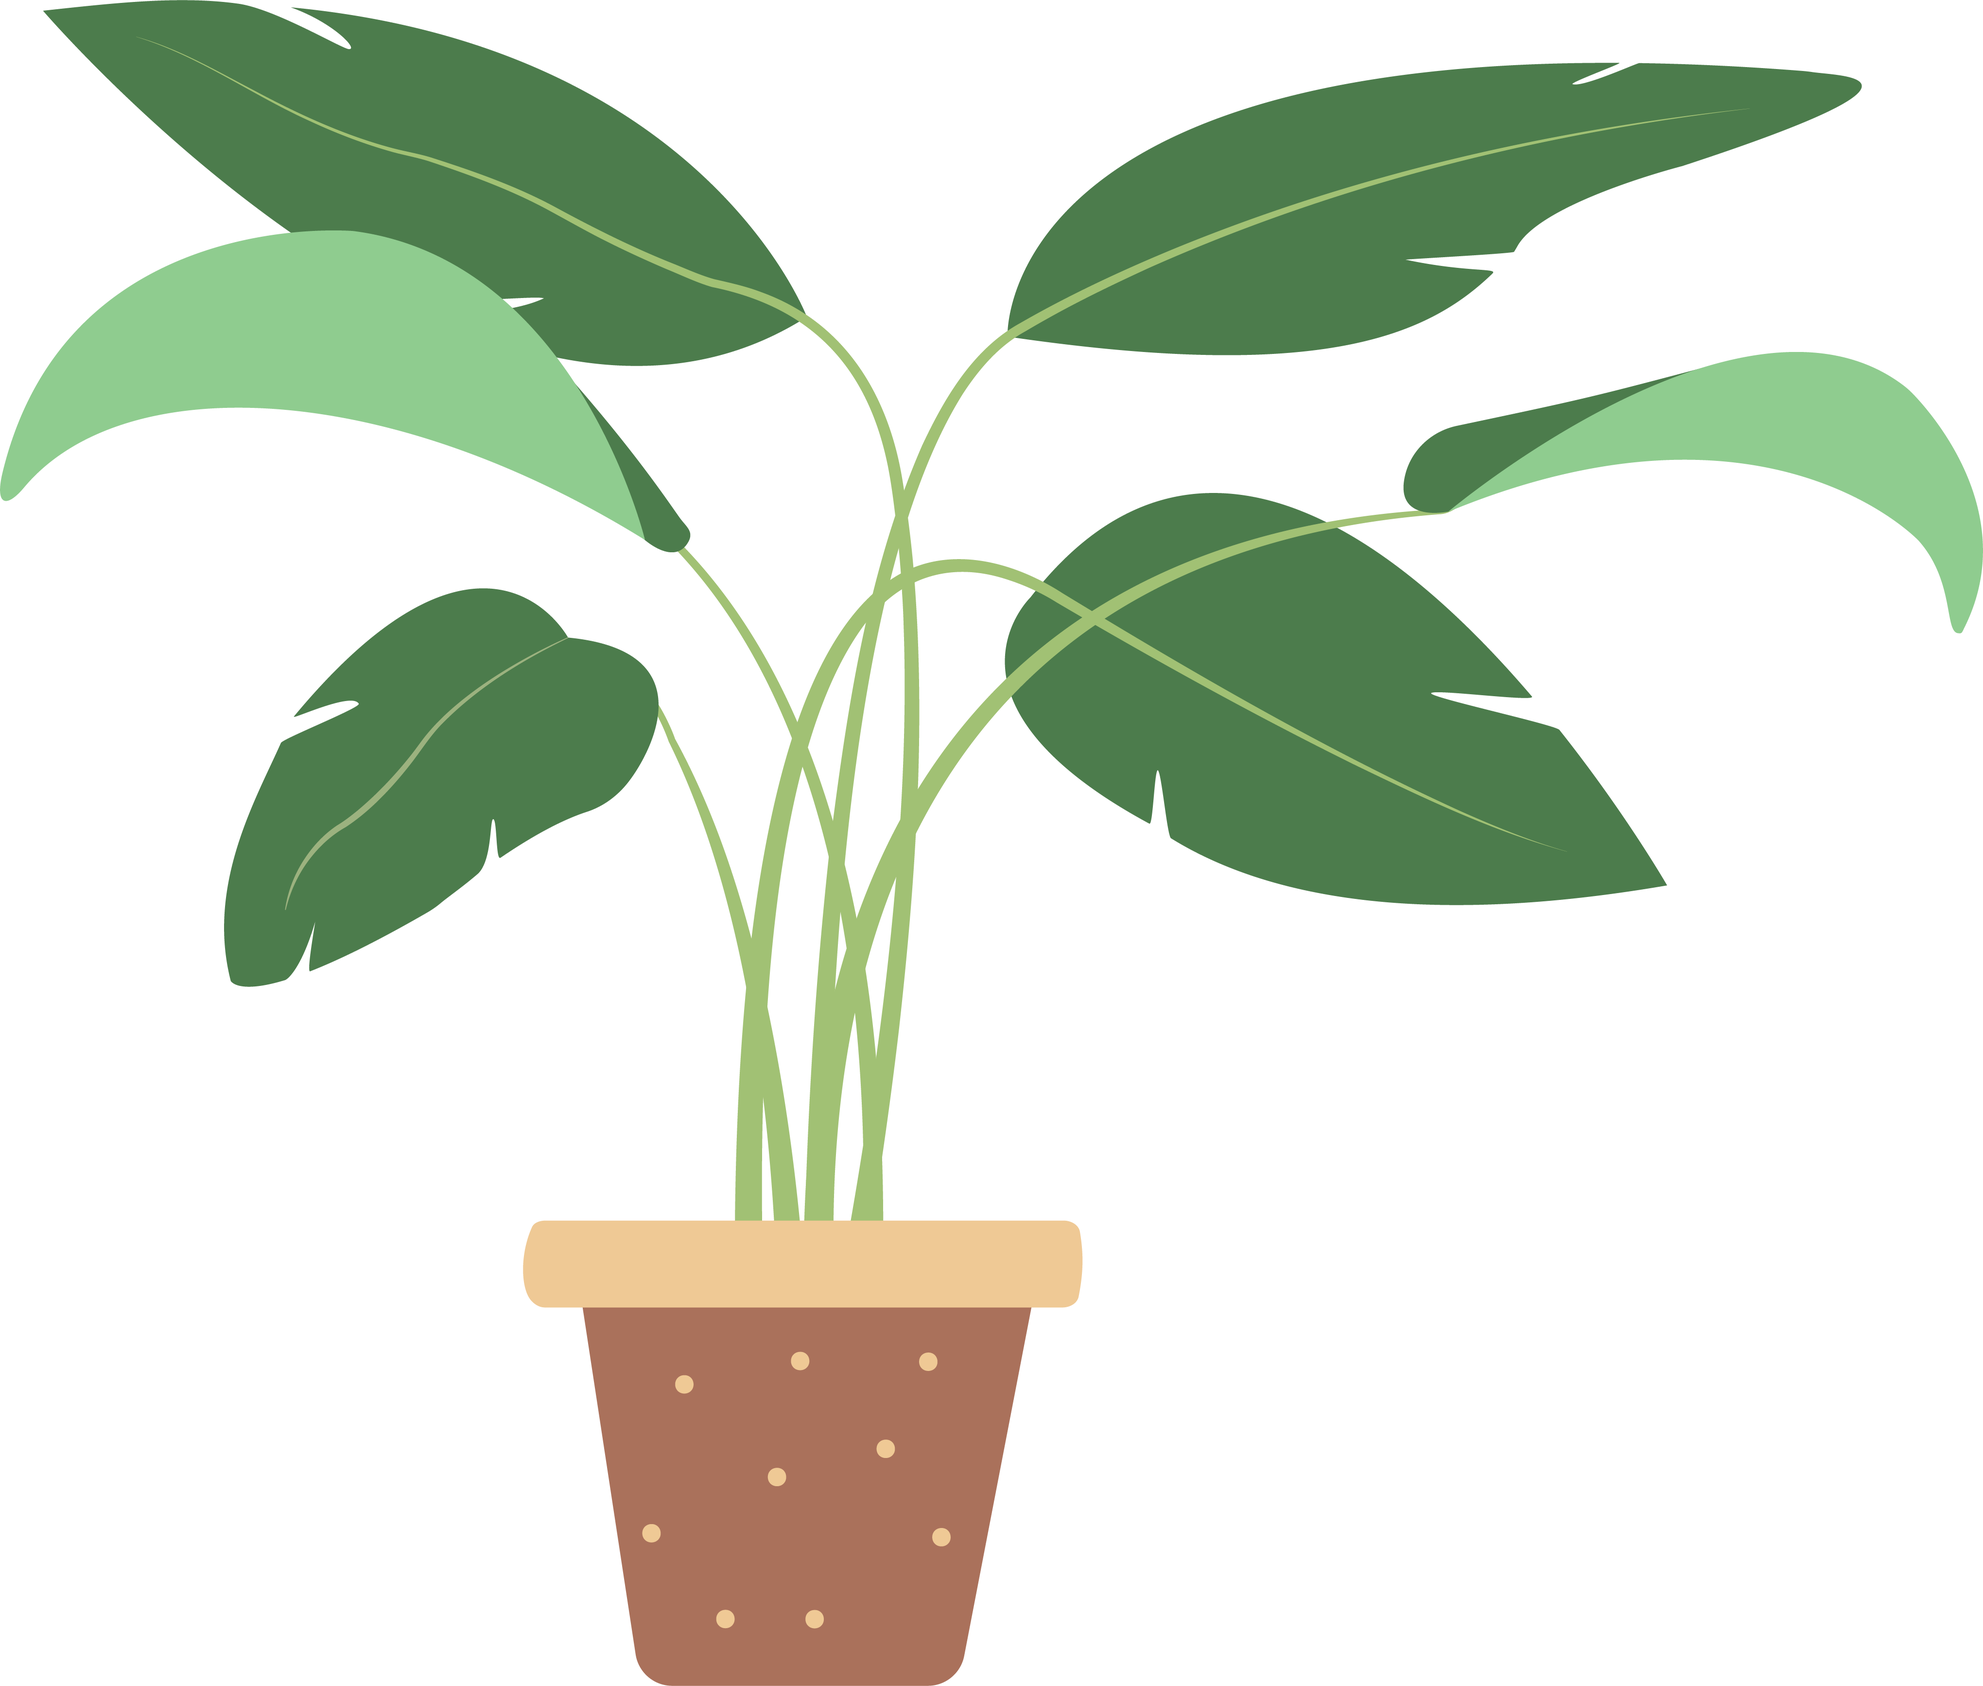
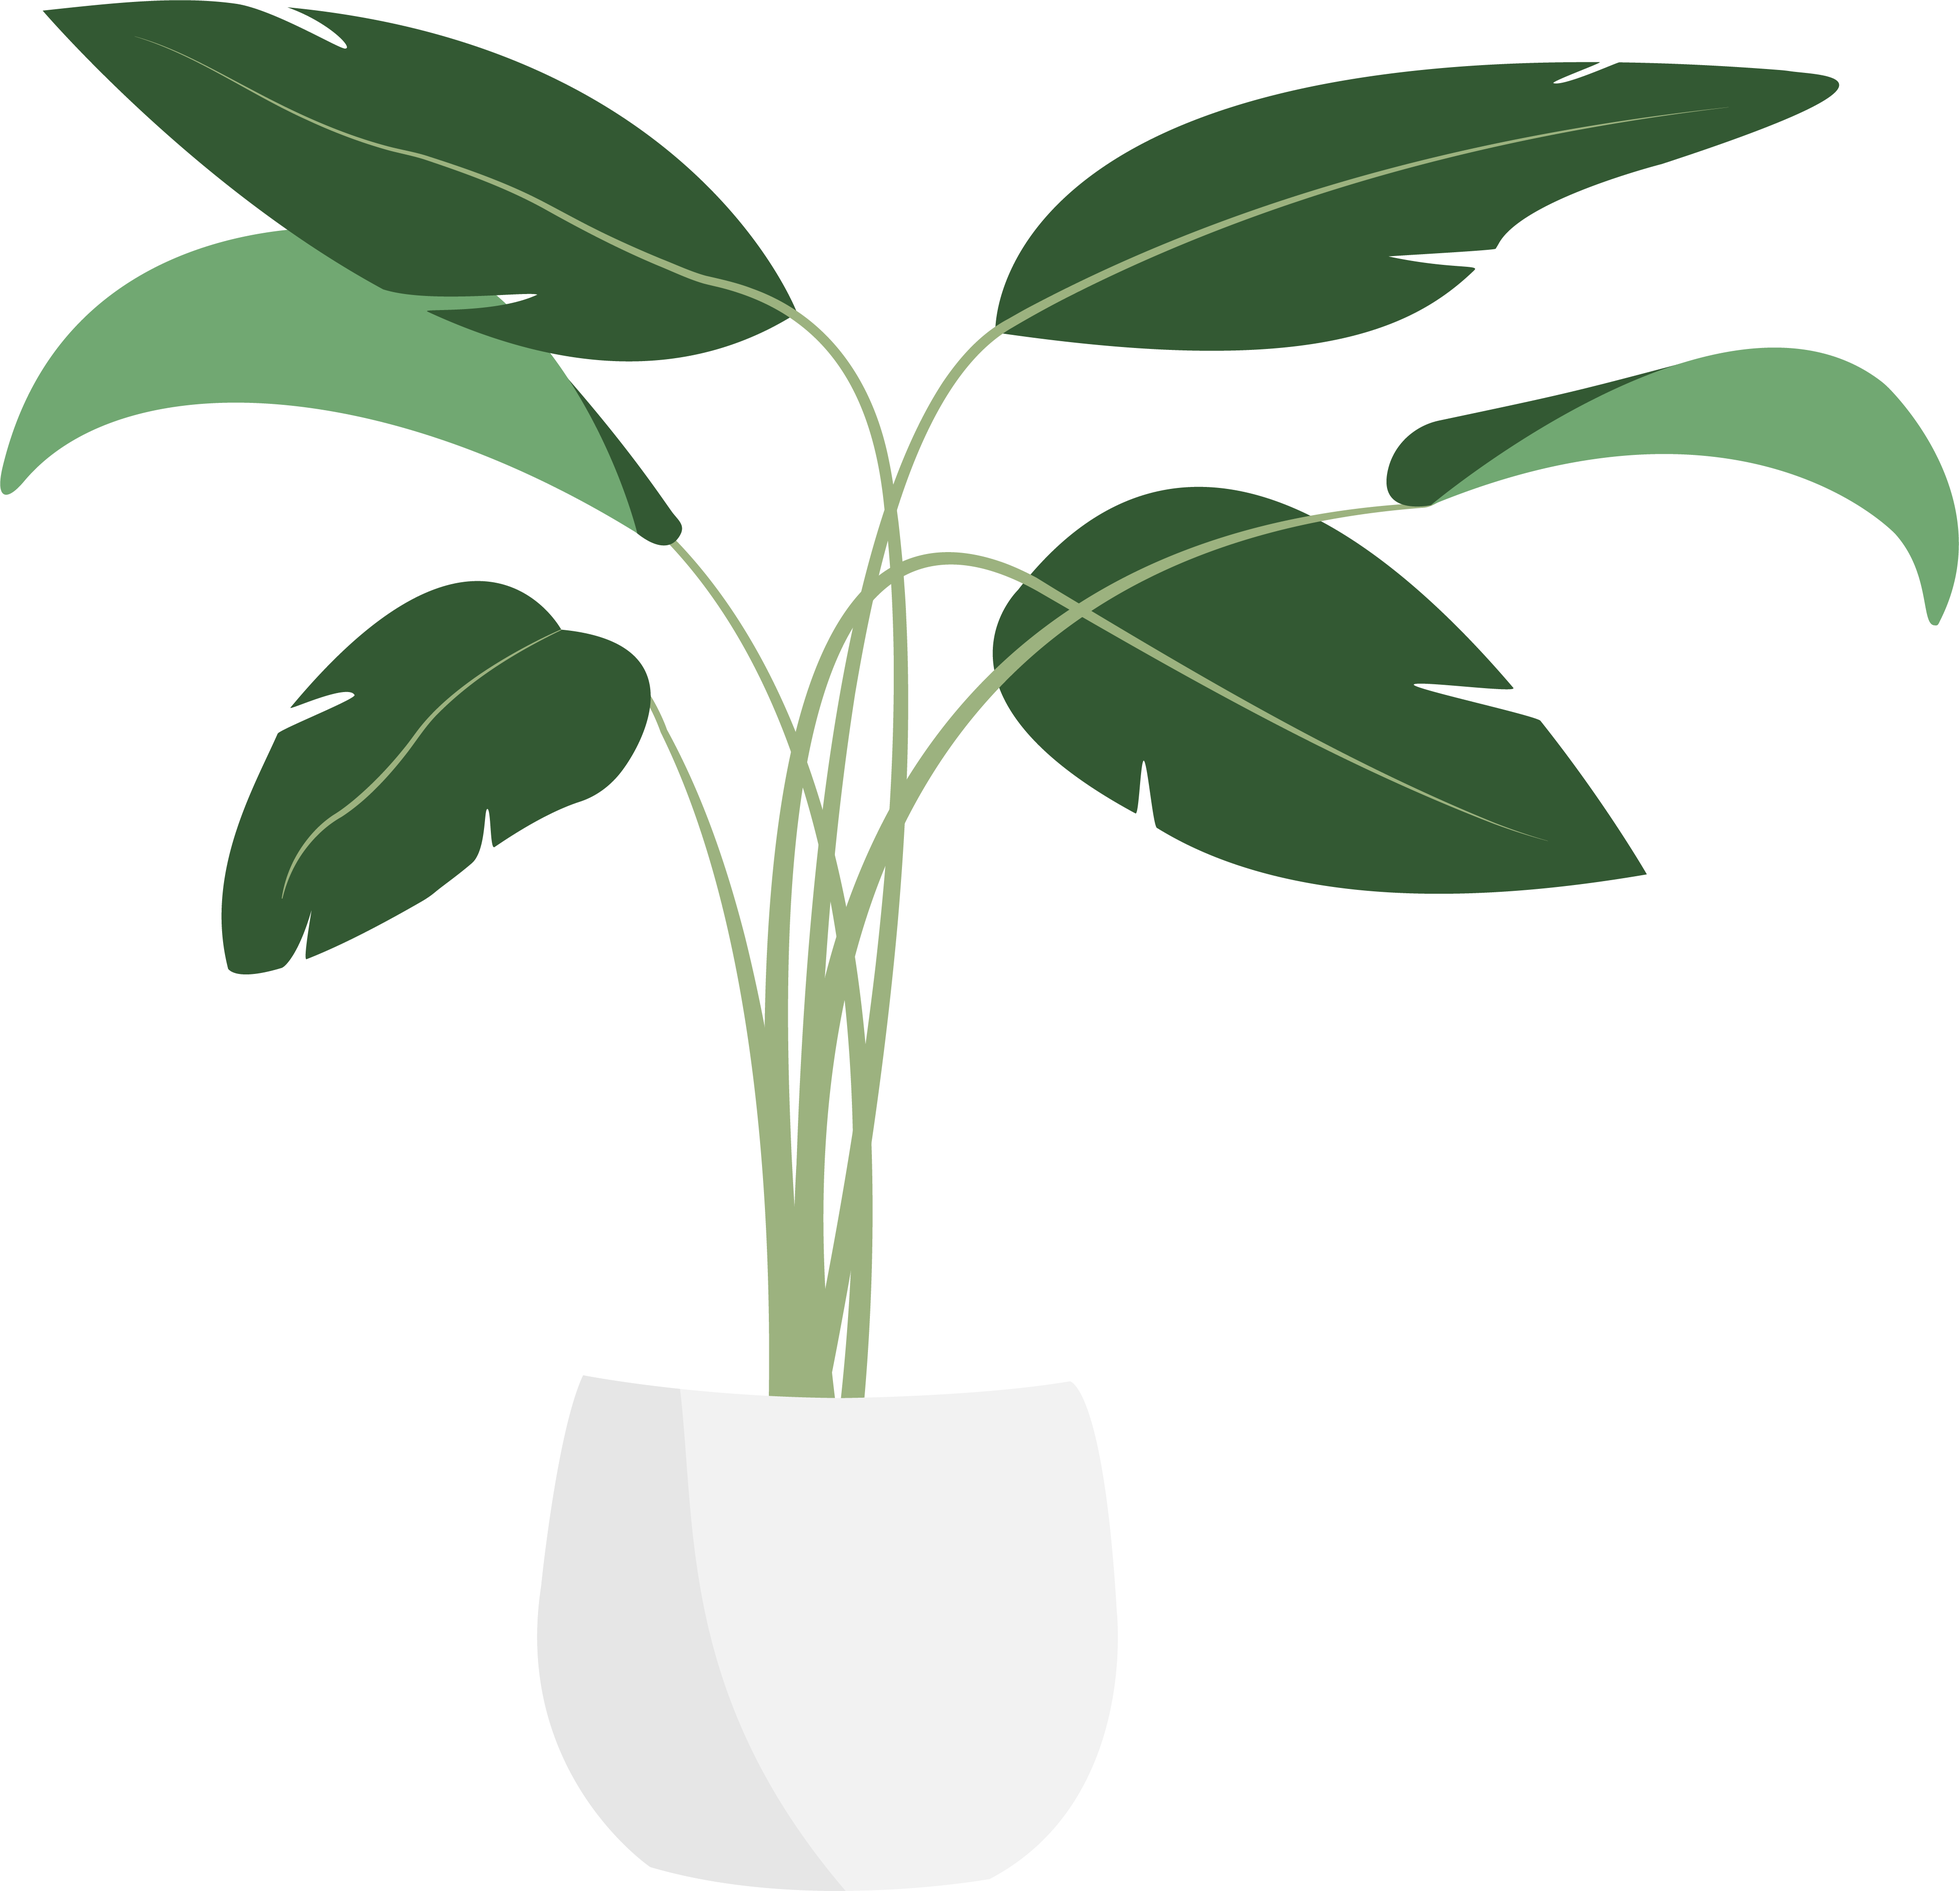
Lots of design changes

diff --git a/Front-end/index.html b/Front-end/index.html
@@ -63,7 +63,7 @@
           <br>
             <span class="roleText">Graphic / UX / UI designer</span>
             <div class="flexArrow">
-                <a href="#main" aria-label="main content">
+                <a class="arrow-container" href="#main" aria-label="main content">
                     <img src="./assets/icons/arrow.svg"
                     class="arrow"
                     aria-hidden="true">
@@ -88,9 +88,9 @@
                 </a>
             </div>
             <div class="socialMedia"> 
-                <a href="https://www.instagram.com/gunderhuset_produksjon/" target="_blank" rel="noreferrer noopener"><img src="./assets/icons/instagram.svg" alt="instagram"></a>
-                <a href="https://www.linkedin.com/in/inger-marie-gunderhuset/" target="_blank" rel="noreferrer noopener"><img src="./assets/icons/linkedin.svg" alt="linkedIn"></a>
-                <a href="https://github.com/IngerMarie99" target="_blank" rel="noreferrer noopener"><img src="./assets/icons/github.svg" alt="Github"></a>
+                <a href="https://www.instagram.com/gunderhuset_produksjon/" style="height: 30px; width: 30px;" target="_blank" rel="noreferrer noopener"><img src="./assets/icons/instagram.svg" alt="instagram"></a>
+                <a href="https://www.linkedin.com/in/inger-marie-gunderhuset/" style="height: 30px; width: 30px;" target="_blank" rel="noreferrer noopener"><img src="./assets/icons/linkedin.svg" alt="linkedIn"></a>
+                <a href="https://github.com/IngerMarie99" style="height: 30px; width: 30px;" target="_blank" rel="noreferrer noopener"><img src="./assets/icons/github.svg" alt="Github"></a>
             </div>
             <div class="copyright"> 
             ©Inger Marie Gunderhuset, 2023

diff --git a/Front-end/css/style.css b/Front-end/css/style.css
@@ -246,7 +246,7 @@ nav, ul {
     width: 100vw;
     height: 90vh;
     padding: 180px var(--marginsLeftRight-D);
-    background-image: url('../assets/Images/Plante\ desktop-2.gif') ;
+    background-image: url('../assets/Images/Plante hvit potte.gif') ;
     background-size: contain;
     background-position: right;
     background-repeat: no-repeat;
@@ -270,6 +270,11 @@ nav, ul {
     flex-flow: column nowrap;
     justify-content: center;
     align-items: center;
+}
+.arrow-container {
+    width: 100%;
+    height: 80px;
+    text-align: center;
 }
 
 .arrow {
@@ -760,8 +765,8 @@ footer {
     padding-top: 30px;
     padding-bottom: 30px;
     margin-top: 50px;
-    background-color: var(--white);
-    border-top: 1px solid var(--accentDark);
+    background-color: var(--black);
+    color: var(--white);
 }
 
 .contact {
@@ -782,7 +787,7 @@ footer {
 
 .copyright {
     font-size: 0.667rem;
-    padding-top: 0.556rem;
+    padding-top: 1.556rem;
 }
 
 

diff --git a/Front-end/css/variables.css b/Front-end/css/variables.css
@@ -1,11 +1,11 @@
 @import url('https://fonts.googleapis.com/css2?family=Montserrat:wght@300;400;500;600&family=Playfair+Display&display=swap');
 
 :root {
-    --white: #F3F3F3;
+    --white: #F2F2F2;
     --white80: #F3F3F380;
-    --black: #2E2E2E;
-    --accentDark: #883D13;
-    --accentLight: #FFA877;
+    --black: #011826;
+    --accentDark: #9B3502;
+    --accentLight: #C88200;
     --accentDark20: #DECFC6;
     --identityFont: 'Playfair Display', serif;
     --bodyFont: 'Montserrat', sans-serif;
@@ -112,7 +112,7 @@ button {
 }
 
 button:hover {
-    background-color: var(--white);
+    background-color: var(--black);
     border: 1px solid var(--accentLight);
     border-radius: 3px;
     color: var(--accentLight);

diff --git a/Front-end/about-me/index.html b/Front-end/about-me/index.html
@@ -70,7 +70,7 @@
                         delivering on that promise.                        
                     </p>
                 </div>
-                <img src="../assets/Images/Profile_picture_4.jpg" alt="Inger Marie">
+                <img src="../assets/Images/DSC_1413.jpeg" alt="Inger Marie">
             </section>
 
         </main>
